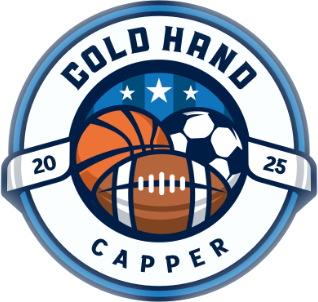
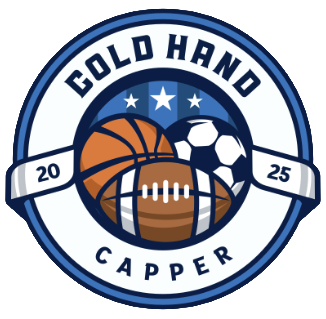
transfer to living room

diff --git a/app/page.tsx b/app/page.tsx
@@ -8,15 +8,14 @@ export default function Home() {
         <Image
           src="/images/icon-cold-hand-capper.png"
           alt="chc_logo"
-          width={100}
-          height={125}
-          // style={{ objectFit: "cover" }}       ONLY PAYS ATTENTION TO WIDTH
-          // style={{ width: "100px", height: "100px", objectFit: "fill" }}
+          width={300}
+          height={200}
+          style={{ height: "20%", objectFit: "fill" }}
         />
         <p>This is my homepage</p>
         <Link href="/about">Go to About</Link>
       </div>
-    </header>
+</header>
   );
 }
 
@@ -25,12 +24,13 @@ const styles = {
     backgroundColor: "blue",
     color: "white",
     width: "100%",
+    height: "175px",
     padding: "20px 0",
     display: "flex",
     justifyContent: "center",
   },
   content: {
-    textAlign: "center",
+    textAlign: "center" as const,
   },
 };
 /*
